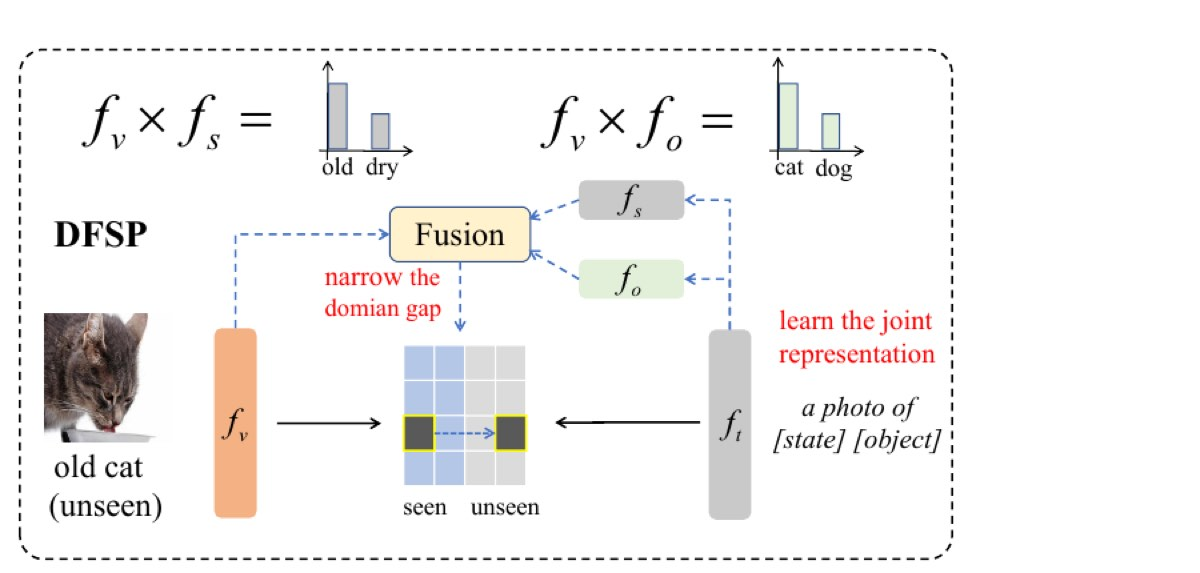
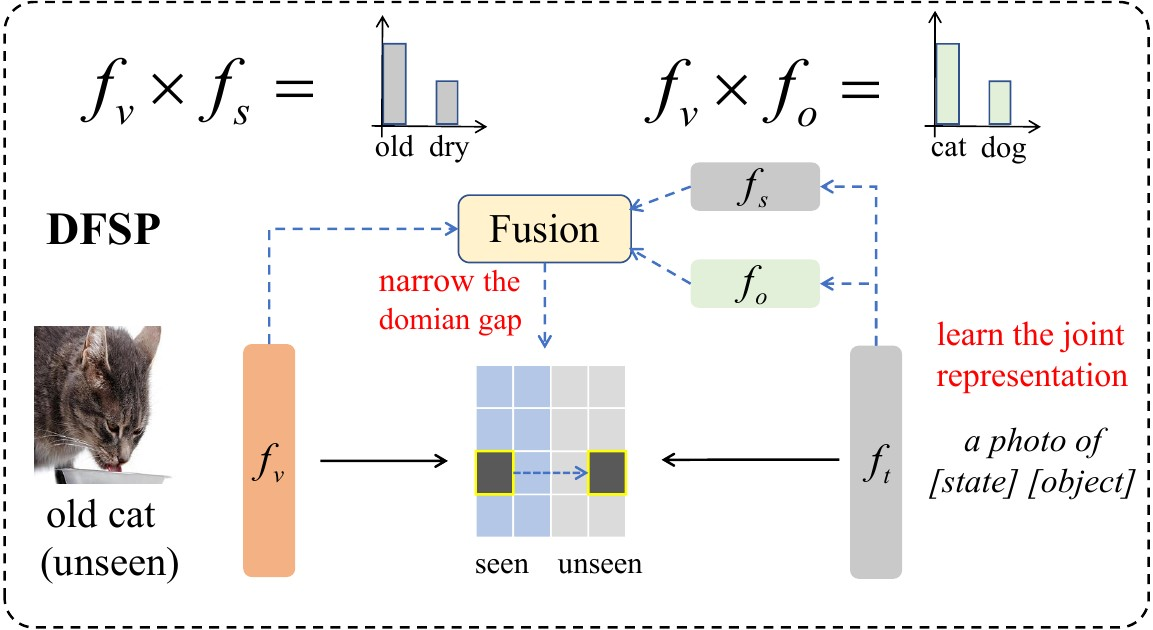
Refine DFSP figure crops

Changed region(s): [[0.0, 0.0, 0.9991, 1.0], [0.7181, 0.0593, 0.9055, 0.267], [0.4683, 0.1483, 0.4996, 0.178]]

diff --git a/DFSP/index.html b/DFSP/index.html
@@ -17,8 +17,9 @@ h1{font-size:44px;line-height:1.08;margin:12px auto 14px;max-width:930px;letter-
 .links{display:flex;gap:10px;justify-content:center;flex-wrap:wrap;margin-top:22px}
 .btn{display:inline-flex;align-items:center;justify-content:center;min-height:38px;border:1px solid #b8c6d8;border-radius:7px;background:#fff;color:var(--blue);padding:8px 14px;font-weight:700}
 .btn.primary{background:var(--blue);border-color:var(--blue);color:#fff}.btn:hover{text-decoration:none;filter:brightness(.98)}
-.hero-fig{margin:28px auto 0;background:var(--paper);border:1px solid var(--line);border-radius:8px;padding:16px;box-shadow:var(--shadow)}
-.hero-fig img,.figure img{display:block;width:100%;height:auto;border:1px solid #e3e8f0;border-radius:6px;background:#fff}
+.hero-fig{margin:28px auto 0;background:var(--paper);border:1px solid var(--line);border-radius:8px;padding:12px;box-shadow:var(--shadow)}
+.hero-fig img,.figure img{display:block;width:100%;height:auto;margin:0 auto;border:0;border-radius:3px;background:#fff}
+.hero-fig img{width:min(100%,940px)}
 .caption{margin:10px 2px 0;color:var(--muted);font-size:14px;text-align:left}
 section{margin-top:42px}
 h2{font-size:26px;margin:0 0 14px}h3{font-size:18px;margin:0 0 8px}
@@ -28,7 +29,7 @@ h2{font-size:26px;margin:0 0 14px}h3{font-size:18px;margin:0 0 8px}
 .metric strong{display:block;font-size:30px;color:var(--blue);line-height:1.1}.metric span{color:var(--muted);font-size:13px}
 .takeaways{display:grid;grid-template-columns:repeat(3,1fr);gap:14px}
 .takeaway{background:var(--paper);border:1px solid var(--line);border-radius:8px;padding:18px}.takeaway b{color:var(--green)}
-.figure{background:var(--paper);border:1px solid var(--line);border-radius:8px;padding:16px;box-shadow:var(--shadow)}
+.figure{background:var(--paper);border:1px solid var(--line);border-radius:8px;padding:12px;box-shadow:var(--shadow)}
 .table-wrap{overflow-x:auto;background:var(--paper);border:1px solid var(--line);border-radius:8px;box-shadow:var(--shadow)}
 table{border-collapse:collapse;width:100%;min-width:920px;font-size:14px}th,td{padding:9px 10px;border-bottom:1px solid #e5eaf1;text-align:center;white-space:nowrap}th:first-child,td:first-child{text-align:left}thead th{background:#eef3f7;color:#344054}.group th{background:#f8fafc;color:#526071;font-size:13px}.ours{background:#edf8f4;font-weight:700}.note{color:var(--muted);font-size:14px;margin:10px 2px 0}
 .analysis-list{display:grid;grid-template-columns:repeat(2,1fr);gap:14px}.analysis-list article{background:var(--paper);border:1px solid var(--line);border-radius:8px;padding:18px}